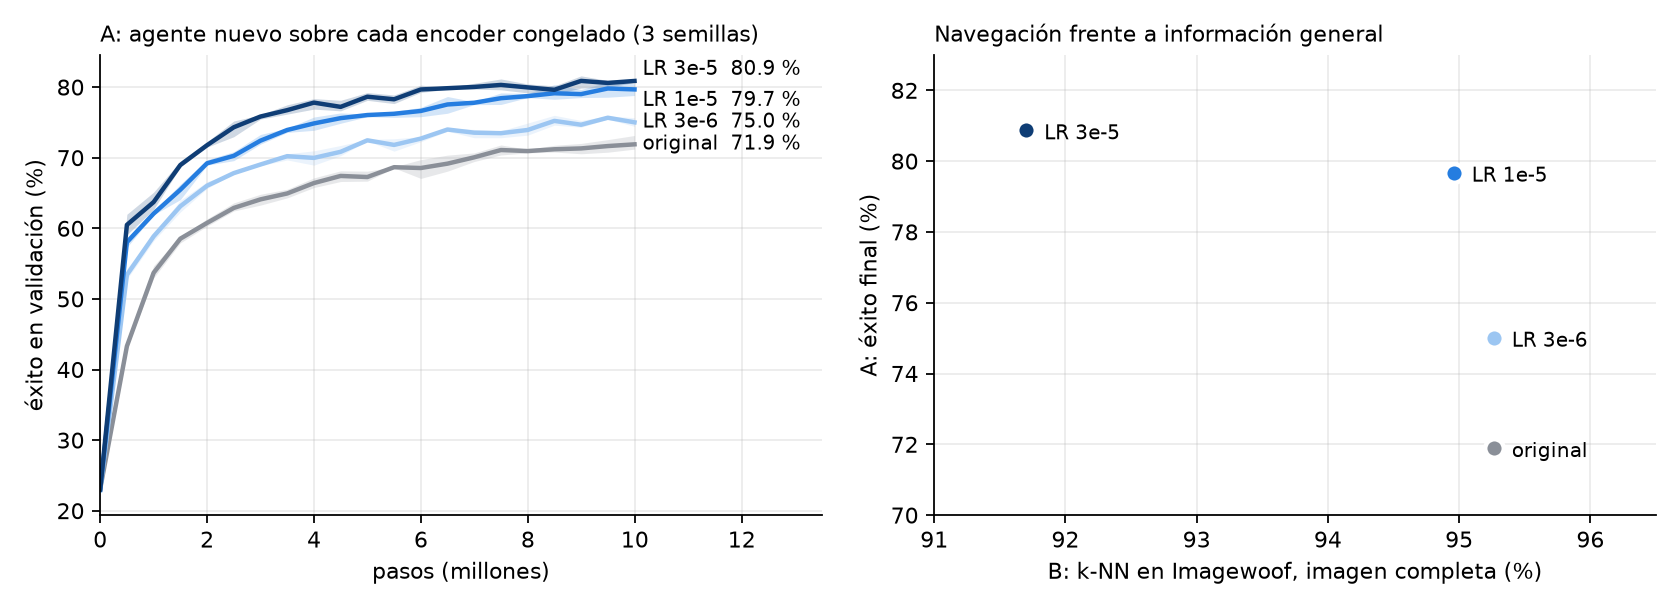
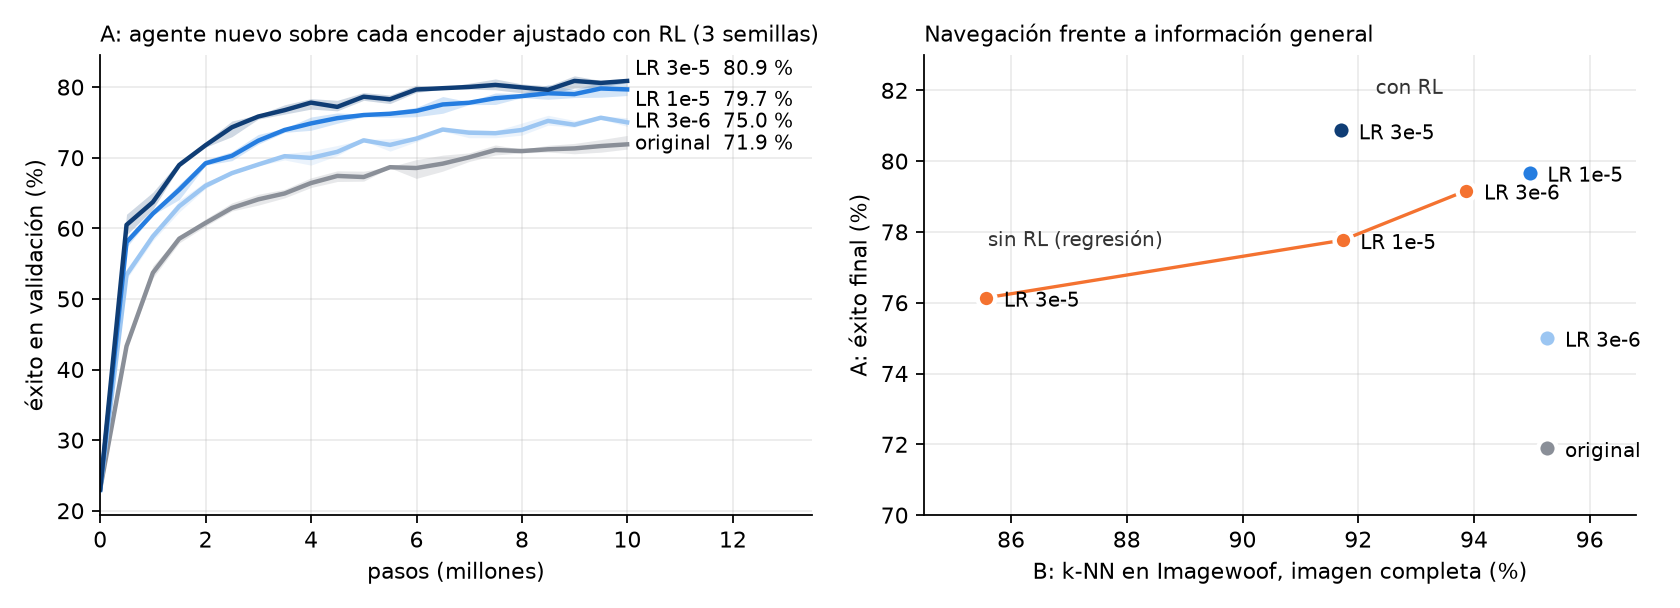
No-RL regression baseline: script, Modal runs, experiments A/B, log

diff --git a/regress.py b/regress.py
@@ -1,0 +1,110 @@
+"""Línea base sin RL: ajustar el encoder prediciendo directamente el desplazamiento al objetivo.
+
+Misma señal que usa el agente (dónde está el objetivo respecto a mí), sin agente ni recompensa: dado el glimpse
+actual (encoder en vivo) y el glimpse objetivo (encoder original congelado), una cabeza MLP predice (Δfila, Δcolumna).
+Presupuesto igualado al de la etapa 2 de finetune.py: mismos glimpses nuevos (--samples), mismas tandas de 8192
+reutilizadas 4 épocas en 4 minilotes, mismos LR, mismo decaimiento, mismo recorte de gradiente, mismos bloques libres.
+
+Uso local (prueba): uv run python regress.py --limit 64 --samples 16384 --warm 50 --name prueba_reg
+Salida en out/: <name>_encoder.pt, <name>_{train,val}.npz, <name>.json
+"""
+import argparse
+import json
+import time
+from pathlib import Path
+
+import numpy as np
+import torch
+import torch.nn.functional as F
+from torch import nn
+
+from finetune import Glimpses, SplitEncoder, embed_all, load_pixels
+from glimpse import GRID, device, load_encoder
+from ppo import layer
+
+
+def main(argv=None):
+    ap = argparse.ArgumentParser()
+    ap.add_argument("--data", default="data/imagenette2")
+    ap.add_argument("--name", required=True)
+    ap.add_argument("--limit", type=int)
+    ap.add_argument("--warm", type=int, default=2000, help="pasos de la cabeza sola, encoder congelado")
+    ap.add_argument("--samples", type=int, default=6_000_000, help="glimpses nuevos (= pasos de la etapa 2 con RL)")
+    ap.add_argument("--k", type=int, default=2)
+    ap.add_argument("--lr", type=float, default=2.5e-4)
+    ap.add_argument("--lr-enc", type=float, default=1e-5)
+    ap.add_argument("--batch", type=int, default=8192)
+    ap.add_argument("--evals", type=int, default=12)
+    ap.add_argument("--seed", type=int, default=0)
+    args = ap.parse_args(argv)
+    torch.manual_seed(args.seed)
+    dev, out, t0 = device(), Path("out"), time.time()
+    out.mkdir(exist_ok=True)
+
+    g_tr = Glimpses(load_pixels(args.data, "train", args.limit).to(dev))
+    g_va = Glimpses(load_pixels(args.data, "val", args.limit).to(dev))
+    n_tr, n_va = len(g_tr.pix), len(g_va.pix)
+    base = load_encoder().eval().to(dev)
+    e_tr, e_va = embed_all(base, g_tr, n_tr), embed_all(base, g_va, n_va)
+    mu, sd = e_tr.mean((0, 1)), e_tr.std((0, 1)) + 1e-6
+    t_tr, t_va = (e_tr - mu) / sd, (e_va - mu) / sd
+    d = e_tr.shape[-1]
+    head = nn.Sequential(layer(2 * d, 256), nn.Tanh(), layer(256, 256), nn.Tanh(), layer(256, 2)).to(dev)
+
+    def pairs(n_img, n):  # imagen, casilla actual, casilla objetivo (distinta), desplazamiento normalizado
+        img = torch.randint(n_img, (n,), device=dev)
+        cur = torch.randint(GRID * GRID, (n,), device=dev)
+        goal = (cur + torch.randint(1, GRID * GRID, (n,), device=dev)) % (GRID * GRID)
+        y = torch.stack([goal // GRID - cur // GRID, goal % GRID - cur % GRID], 1).float() / (GRID - 1)
+        return img, cur, goal, y
+
+    opt = torch.optim.Adam(head.parameters(), lr=args.lr, eps=1e-5)
+    for _ in range(args.warm):  # cabeza sola sobre la tabla del encoder original
+        img, cur, goal, y = pairs(n_tr, 2048)
+        loss = F.mse_loss(head(torch.cat([t_tr[img, cur], t_tr[img, goal]], 1)), y)
+        opt.zero_grad(); loss.backward(); opt.step()
+
+    enc = SplitEncoder(args.k).to(dev)
+    params = [p for p in enc.parameters() if p.requires_grad]
+    opt = torch.optim.Adam([{"params": list(head.parameters()), "lr": args.lr, "base": args.lr},
+                            {"params": params, "lr": args.lr_enc, "base": args.lr_enc}], eps=1e-5)
+    trunk = lambda g, img, cell: torch.cat([enc.trunk(g(img[i:i + 1024], cell[i:i + 1024]))
+                                            for i in range(0, len(img), 1024)]).float()
+    v_img, v_cur, v_goal, v_y = pairs(n_va, 4096)
+    history, updates = [], args.samples // args.batch
+
+    @torch.no_grad()
+    def log(u):
+        z = enc.tail(trunk(g_va, v_img, v_cur))
+        pred = head(torch.cat([(z - mu) / sd, t_va[v_img, v_goal]], 1))
+        m = {"samples": u * args.batch, "err_cells": ((pred - v_y).abs().sum(1).mean() * (GRID - 1)).item(),
+             "x_cos": F.cosine_similarity(z, e_va[v_img, v_cur]).mean().item()}
+        history.append(m)
+        print(f"glimpses {m['samples']:>10,}  error {m['err_cells']:.3f} casillas  x_cos {m['x_cos']:.4f}  "
+              f"({time.time() - t0:.0f} s)", flush=True)
+
+    log(0)
+    for u in range(1, updates + 1):
+        for g in opt.param_groups:
+            g["lr"] = g["base"] * (1 - (u - 1) / updates)
+        img, cur, goal, y = pairs(n_tr, args.batch)
+        tok, zg = trunk(g_tr, img, cur), t_tr[img, goal]
+        for _ in range(4):
+            for mb in torch.randperm(args.batch, device=dev).split(args.batch // 4):
+                z = (enc.tail(tok[mb]) - mu) / sd
+                loss = F.mse_loss(head(torch.cat([z, zg[mb]], 1)), y[mb])
+                opt.zero_grad(); loss.backward()
+                nn.utils.clip_grad_norm_(head.parameters(), 0.5); nn.utils.clip_grad_norm_(params, 0.5)
+                opt.step()
+        if u % max(1, updates // args.evals) == 0 or u == updates:
+            log(u)
+
+    torch.save(enc.m.state_dict(), out / f"{args.name}_encoder.pt")
+    for split, g, n in (("train", g_tr, n_tr), ("val", g_va, n_va)):
+        np.savez(out / f"{args.name}_{split}.npz", emb=embed_all(enc, g, n).cpu().numpy().astype(np.float16))
+    (out / f"{args.name}.json").write_text(json.dumps({**vars(args), "history": history, "seconds": time.time() - t0}))
+    print(f"listo en {time.time() - t0:.0f} s -> out/{args.name}_*", flush=True)
+
+
+if __name__ == "__main__":
+    main()

diff --git a/modal_app.py b/modal_app.py
@@ -5,6 +5,8 @@ Uso (varias corridas en paralelo, separadas por ';', cada una 'nombre:argumentos
 
 Experimentos A y B (agentes nuevos sobre cada encoder congelado; k-NN con imagen completa):
   uv run modal run --detach modal_app.py::experiments
+  uv run modal run --detach modal_app.py::experiments --encs reg_k2_lr1e-5,reg_k2_lr3e-5 --tag _reg
+Línea base sin RL (regress.py): igual que el fine-tuning, con --module regress
 
 Los resultados quedan en el Volume 'glimpse-nav-rl', carpeta out/:
   uv run modal volume get glimpse-nav-rl out/<archivo> out/
@@ -17,7 +19,7 @@ image = (
     modal.Image.debian_slim(python_version="3.12")
     .apt_install("curl")
     .uv_pip_install("torch==2.15.0", "torchvision==0.29.2", "timm==1.0.31", "numpy", "gymnasium", "tqdm")
-    .add_local_python_source("glimpse", "env", "ppo", "finetune", "eval_repr")
+    .add_local_python_source("glimpse", "env", "ppo", "finetune", "eval_repr", "regress")
 )
 DATA_URL = "https://s3.amazonaws.com/fast-ai-imageclas/imagenette2.tgz"
 
@@ -43,22 +45,21 @@ def prepare():
 
 # Tope de gasto: ~1,4 USD/h por corrida (GPU A10 + 2 CPU + 24 GB). El timeout acota el peor caso.
 @app.function(image=image, gpu="A10", volumes={"/vol": vol}, timeout=2 * 3600, cpu=2, memory=24576)
-def run(argv: list[str]):
+def run(argv: list[str], module: str = "finetune"):
+    import importlib
     import os
 
     os.chdir("/vol")
-    import finetune
-
-    finetune.main(argv)
+    importlib.import_module(module).main(argv)  # finetune (RL) o regress (línea base sin RL)
     vol.commit()
 
 
 @app.local_entrypoint()
-def main(runs: str):
+def main(runs: str, module: str = "finetune"):
     prepare.remote()
     for spec in runs.split(";"):
         name, _, extra = spec.partition(":")
-        call = run.spawn(["--name", name, *extra.split()])
+        call = run.spawn(["--name", name, *extra.split()], module)
         print(f"lanzado {name}: {call.object_id}")
 
 
@@ -85,7 +86,7 @@ def exp_a(enc: str, seed: int, steps: int = 10_000_000):
 
 
 @app.function(image=image, gpu="A10", volumes={"/vol": vol}, timeout=3600, cpu=8, memory=16384)
-def exp_b():
+def exp_b(encs: list[str], tag: str = ""):
     import os
     import shutil
     import subprocess
@@ -96,19 +97,21 @@ def exp_b():
     for ds in ("imagenette2", "imagewoof2"):
         subprocess.run(f"curl -sSfL --retry 10 {DATA_URL.replace('imagenette2', ds)} | tar -xz -C data",
                        shell=True, check=True)
-    sys.argv = ["eval_repr.py", *[f"/vol/out/{e}_encoder.pt" for e in ENCODERS[1:]]]
+    sys.argv = ["eval_repr.py", *[f"/vol/out/{e}_encoder.pt" for e in encs]]
     import eval_repr
 
     eval_repr.main()
     os.makedirs("/vol/results", exist_ok=True)
-    shutil.copy("results/eval_repr.jsonl", "/vol/results/eval_repr.jsonl")
+    shutil.copy("results/eval_repr.jsonl", f"/vol/results/eval_repr{tag}.jsonl")
     vol.commit()
 
 
 @app.local_entrypoint()
-def experiments(seeds: int = 3, steps: int = 10_000_000, b: bool = True):
+def experiments(seeds: int = 3, steps: int = 10_000_000, b: bool = True, encs: str = "", tag: str = ""):
+    """encs: encoders separados por coma (por defecto, el original y los tres ajustados con RL)."""
+    encs = encs.split(",") if encs else ENCODERS
     if b:
-        print("B:", exp_b.spawn().object_id)
-    for enc in ENCODERS:
+        print("B:", exp_b.spawn([e for e in encs if e != "base"], tag).object_id)
+    for enc in encs:
         for seed in range(seeds):
             print(f"A {enc} s{seed}:", exp_a.spawn(enc, seed, steps).object_id)

diff --git a/fig_ab.py b/fig_ab.py
@@ -22,11 +22,20 @@ for key, name, col in ENC:
     knn = rep["original" if key == "base" else key]["knn_imagewoof"]
     b.scatter(knn, y.mean(0)[-1], s=70, color=col, edgecolor="white", linewidth=2, zorder=3)
     b.annotate(name, (knn, y.mean(0)[-1]), textcoords="offset points", xytext=(8, -4), fontsize=9)
-a.set_title("A: agente nuevo sobre cada encoder congelado (3 semillas)", loc="left", fontsize=10)
+reg = last("results/modal/eval_repr_reg.jsonl")  # línea base sin RL (regresión directa), en naranja
+pts = []
+for lr in ("3e-6", "1e-5", "3e-5"):
+    fin = [last(f)["final"]["success"] * 100 for f in sorted(glob.glob(f"results/modal/expA_reg_k2_lr{lr}_s*.jsonl"))]
+    pts.append((reg[f"reg_k2_lr{lr}"]["knn_imagewoof"], np.mean(fin)))
+    b.annotate(f"LR {lr}", pts[-1], textcoords="offset points", xytext=(8, -4), fontsize=9)
+b.plot(*zip(*pts), "-o", color="#f47230", ms=8, mec="white", mew=2, zorder=2)
+b.text(85.6, 77.6, "sin RL (regresión)", color="#333", fontsize=9)
+b.text(92.3, 81.9, "con RL", color="#333", fontsize=9)
+a.set_title("A: agente nuevo sobre cada encoder ajustado con RL (3 semillas)", loc="left", fontsize=10)
 a.set_xlabel("pasos (millones)"); a.set_ylabel("éxito en validación (%)"); a.set_xlim(0, 13.5)
 b.set_title("Navegación frente a información general", loc="left", fontsize=10)
 b.set_xlabel("B: k-NN en Imagewoof, imagen completa (%)"); b.set_ylabel("A: éxito final (%)")
-b.set_xlim(91, 96.5); b.set_ylim(70, 83)
+b.set_xlim(84.5, 96.8); b.set_ylim(70, 83)
 for ax in (a, b):
     ax.spines[["top", "right"]].set_visible(False); ax.grid(alpha=0.25)
 fig.tight_layout(); fig.savefig("figures/expAB.png", dpi=160)

diff --git a/BITACORA.md b/BITACORA.md
@@ -246,3 +246,48 @@ Figura: `figures/expAB.png` (`fig_ab.py`).
 **Limitaciones.** Un solo fine-tuning por LR (las 3 semillas son del agente nuevo, no del ajuste). Falta la línea base sin RL (regresión directa del desplazamiento), que es la objeción principal. k-NN de clasificación es una sola medida de "información general"; falta segmentación (Pascal VOC).
 
 **Gasto en Modal:** 5,33 USD medidos en total (esta tanda: ~1,3 USD). Facturado: 0,00 USD. Tope: 15 USD.
+
+## 2026-11-26 — ¿El agente va hacia el objetivo o recorre la imagen?
+
+Pregunta del usuario. Medido con el agente del encoder congelado (`frozen_bump_s0`, 20 000 episodios de validación, una semilla):
+
+| Condición | Éxito | Primer paso acerca | Pasos que acercan (todos) |
+|---|---|---|---|
+| Agente normal | 71,8 % | 76,7 % | 53,0 % |
+| Mismo agente, objetivo cambiado por el de otra imagen | 28,8 % | 54,4 % | 34,7 % |
+| Paseo aleatorio | 23,0 % | 43,4 % | 42,9 % |
+
+- Usa el objetivo: sin el objetivo correcto cae casi al azar. Además, un barrido ciego tiene un techo del 50 % (24 pasos, 48 casillas posibles).
+- Se orienta bien al arrancar y después es menos fino: camino ≈1,5 veces el más corto en los episodios exitosos.
+
+## 2026-11-26 — Línea base sin RL: regresión directa del desplazamiento
+
+**Qué es.** `regress.py`: mismos bloques libres (k=2), mismos LR, mismos 6 M de glimpses nuevos en tandas de 8192 reutilizadas 4 épocas × 4 minilotes, mismo decaimiento y recorte de gradiente que la etapa 2 con RL. En vez de agente y recompensa, una cabeza MLP predice (Δfila, Δcolumna) al objetivo; el objetivo viene del encoder original congelado. Pares (actual, objetivo) uniformes. Calentamiento de la cabeza: 2 000 pasos con el encoder congelado.
+
+Lanzamiento: `uv run modal run --detach modal_app.py::main --module regress --runs "reg_k2_lr1e-5:--k 2 --lr-enc 1e-5;..."` y luego `modal_app.py::experiments --encs reg_k2_lr3e-6,reg_k2_lr1e-5,reg_k2_lr3e-5 --tag _reg`. A10, 37 min por ajuste.
+
+**Durante el ajuste.** Error de desplazamiento (L1, casillas, validación): 3,17 → 2,87 / 2,87 / 2,94 (LR 3e-6 / 1e-5 / 3e-5). Baja poco.
+
+**Experimentos A y B, RL frente a regresión** (A: 3 semillas del agente nuevo, 10 M de pasos; B: k-NN con imagen completa):
+
+| Ajuste | LR | Éxito val. | Éxito train | SPL | k-NN Imagenette | k-NN Imagewoof | CKA Imagewoof |
+|---|---|---|---|---|---|---|---|
+| Ninguno (original) | — | 71,9 ± 1,1 % | 72,4 % | 0,470 | 99,54 % | 95,27 % | 1,00 |
+| RL | 3e-6 | 75,0 ± 0,6 % | 76,1 % | 0,517 | 99,39 % | 95,27 % | 0,98 |
+| RL | 1e-5 | 79,7 ± 0,8 % | 81,0 % | 0,565 | 99,29 % | 94,96 % | 0,93 |
+| RL | 3e-5 | **80,9 ± 0,2 %** | 82,2 % | 0,595 | 98,24 % | 91,70 % | 0,74 |
+| Regresión | 3e-6 | 79,2 ± 0,5 % | 80,5 % | 0,566 | 99,19 % | 93,87 % | 0,89 |
+| Regresión | 1e-5 | 77,8 ± 0,5 % | 83,4 % | 0,565 | 98,88 % | 91,73 % | 0,74 |
+| Regresión | 3e-5 | 76,1 ± 0,9 % | 90,5 % | 0,563 | 98,32 % | 85,57 % | 0,53 |
+
+- **La regresión también mejora la navegación** (+4 a +7 puntos sobre el original): buena parte de la ganancia viene de la señal de posición, no del RL en sí.
+- **A igual navegación, RL olvida menos.** Cerca del 79–80 % de éxito: RL (1e-5) pierde 0,3 puntos de k-NN en Imagewoof; regresión (3e-6) pierde 1,4. A igual LR la regresión siempre olvida más (hasta −9,7 puntos con 3e-5).
+- **La regresión empeora al subir el LR y memoriza:** con 3e-5 el éxito en entrenamiento es 90,5 % y en validación 76,1 %. Con RL la diferencia train–val nunca pasa de 1,3 puntos.
+- **El mejor resultado de navegación es de RL** (80,9 % frente a 79,2 %), pero la diferencia es pequeña (1,7 puntos).
+- Con LR bajo la regresión rinde más que RL (79,2 % frente a 75,0 % con 3e-6): su señal es más densa.
+
+**Limitaciones.** Un ajuste por celda de la tabla. No probé LR menores que 3e-6 en la regresión, donde podría olvidar menos manteniendo la navegación; la frontera de la regresión no está completa por ese lado. Los pares de la regresión son uniformes y los del RL siguen la distribución de la política. Falta una medida densa (segmentación) en B.
+
+Figura actualizada: `figures/expAB.png`.
+
+**Gasto en Modal:** 8,96 USD medidos en total (esta tanda: ~3,6 USD). Facturado: 0,00 USD. Tope: 15 USD.
